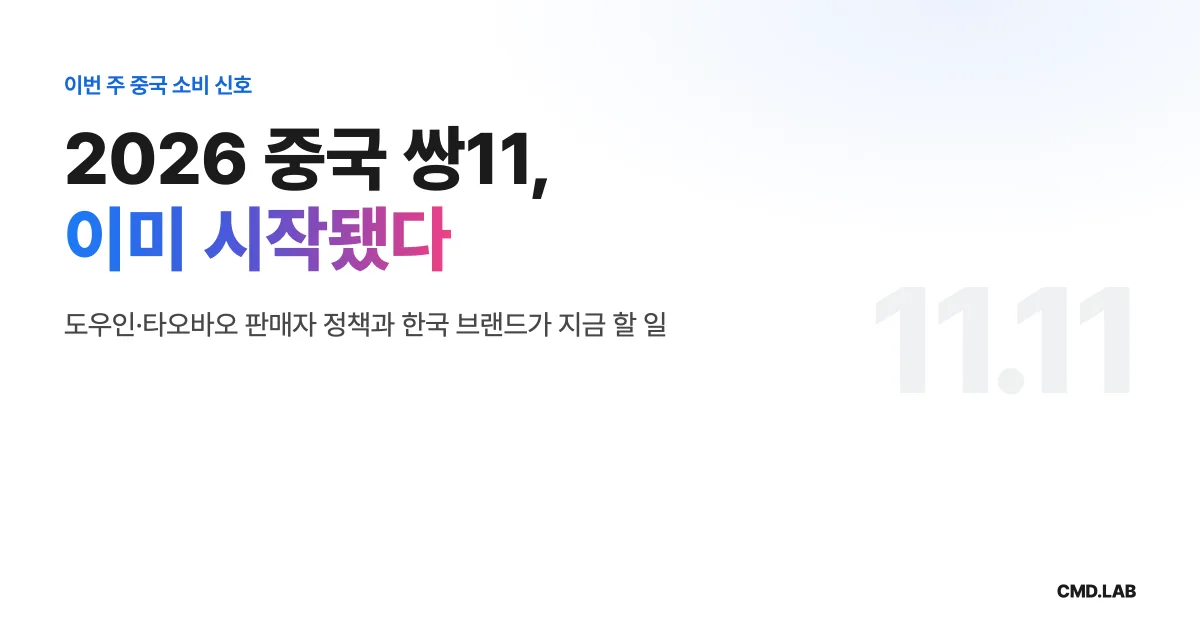
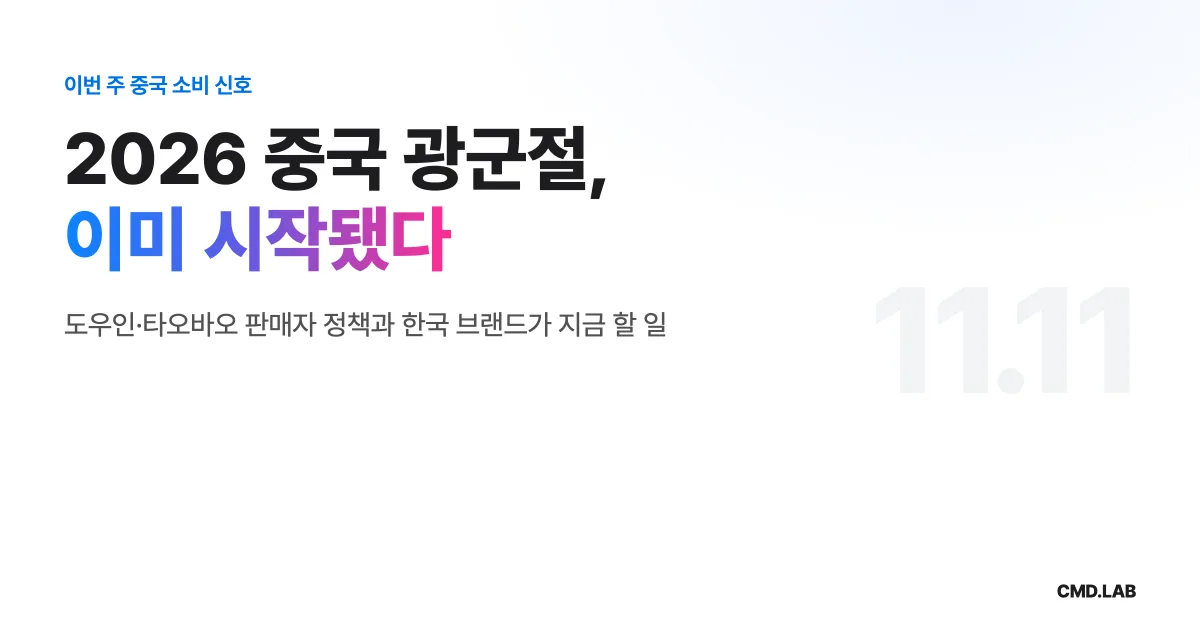
인사이트 그림 속 글자를 광군절로 교체, chinanow 원문 링크 추가(추천 링크와 구분 처리)

Changed region(s): [[0.3392, 0.181, 0.5242, 0.3317], [0.2775, 0.3317, 0.3083, 0.3619]]

diff --git a/insight/2026-china-double11/index.html b/insight/2026-china-double11/index.html
@@ -97,7 +97,7 @@
   <div class="ins-body">
 <blockquote>
 <p>광군절(光棍节)은 광군제, 11.11, 솔로데이, 쌍11(双11)로도 불리는 중국 최대 쇼핑 행사입니다. 이 글은 한국 소비자가 &#39;알리 광군제&#39;, &#39;알리익스프레스 광군제&#39;로 찾는 직구 할인 소식이 아니라, <strong>중국 현지 소비자를 상대로 한 광군절 판매자 정책</strong>을 다룹니다.</p>
-<p>소재는 중국 소비 뉴스를 한국어로 정리해 주는 유료 뉴스레터 <a href="https://www.chinanow.cc/?ref=coorocket" target="_blank" rel="sponsored nofollow noopener" data-track="insight_cta_click" data-track-label="chinanow_referral">chinanow</a>에서 얻었고, 수치는 아래 원출처로 직접 확인했습니다. (추천 링크 포함, 글 끝 안내 참조)</p>
+<p>소재는 중국 소비 뉴스를 한국어로 정리해 주는 유료 뉴스레터 <a href="https://www.chinanow.cc/?ref=coorocket" target="_blank" rel="sponsored nofollow noopener" data-track="insight_cta_click" data-track-label="chinanow_referral">chinanow</a>에서 얻었고(<a href="https://www.chinanow.cc/ko/article/10910/%EC%A4%91%EA%B5%AD-%EC%8C%8D11-%EC%A0%84%EC%9F%81-%EC%98%AC%ED%95%B4%EB%8A%94-%EB%B2%8C%EC%8D%A8-%EC%8B%9C%EC%9E%91%EB%90%90%EB%8B%A4" target="_blank" rel="noopener" data-track="insight_cta_click" data-track-label="chinanow_original">원문 보기</a>), 수치는 아래 원출처로 직접 확인했습니다. (추천 링크 포함, 글 끝 안내 참조)</p>
 </blockquote>
 <blockquote>
 <p><strong>3줄 요약</strong></p>
@@ -186,7 +186,7 @@
 <p>亿邦动力, 「阿里妈妈发布AI定向产品&quot;万相点睛&quot; 披露双11商家侧扶持计划」, 2026-09-02. <a href="https://www.ebrun.com/20260902/704172.shtml" target="_blank" rel="noopener noreferrer">https://www.ebrun.com/20260902/704172.shtml</a></p>
 <p>亿邦动力, 「抖音双11国庆后开始 平台出资消费券 智能优惠券继续降价」, 2026-09-14. <a href="https://www.ebrun.com/20260914/708127.shtml" target="_blank" rel="noopener noreferrer">https://www.ebrun.com/20260914/708127.shtml</a></p>
 <p>甩手网, 「2026抖音双11玩法全公布」, 2026-09-15. <a href="http://www.sszgclub.com/news/84935.html" target="_blank" rel="noopener noreferrer">http://www.sszgclub.com/news/84935.html</a></p>
-<p>소재 참고: <a href="https://www.chinanow.cc/?ref=coorocket" target="_blank" rel="sponsored nofollow noopener" data-track="insight_cta_click" data-track-label="chinanow_referral">chinanow</a> (중국 소비 뉴스레터). 이 링크는 추천 링크이며, 이 링크로 구독하시면 시엠디랩이 소정의 혜택을 받을 수 있습니다. 구독 비용은 달라지지 않습니다.</p>
+<p>소재 참고: <a href="https://www.chinanow.cc/?ref=coorocket" target="_blank" rel="sponsored nofollow noopener" data-track="insight_cta_click" data-track-label="chinanow_referral">chinanow</a> (중국 소비 뉴스레터), <a href="https://www.chinanow.cc/ko/article/10910/%EC%A4%91%EA%B5%AD-%EC%8C%8D11-%EC%A0%84%EC%9F%81-%EC%98%AC%ED%95%B4%EB%8A%94-%EB%B2%8C%EC%8D%A8-%EC%8B%9C%EC%9E%91%EB%90%90%EB%8B%A4" target="_blank" rel="noopener" data-track="insight_cta_click" data-track-label="chinanow_original">소재가 된 원문</a>. 이 링크는 추천 링크이며, 이 링크로 구독하시면 시엠디랩이 소정의 혜택을 받을 수 있습니다. 구독 비용은 달라지지 않습니다.</p>
 
   </section>
 </article>

diff --git a/content/insight/2026-china-double11.md b/content/insight/2026-china-double11.md
@@ -13,7 +13,7 @@ status: 발행
 
 > 광군절(光棍节)은 광군제, 11.11, 솔로데이, 쌍11(双11)로도 불리는 중국 최대 쇼핑 행사입니다. 이 글은 한국 소비자가 '알리 광군제', '알리익스프레스 광군제'로 찾는 직구 할인 소식이 아니라, **중국 현지 소비자를 상대로 한 광군절 판매자 정책**을 다룹니다.
 >
-> 소재는 중국 소비 뉴스를 한국어로 정리해 주는 유료 뉴스레터 [chinanow](https://www.chinanow.cc/?ref=coorocket)에서 얻었고, 수치는 아래 원출처로 직접 확인했습니다. (추천 링크 포함, 글 끝 안내 참조)
+> 소재는 중국 소비 뉴스를 한국어로 정리해 주는 유료 뉴스레터 [chinanow](https://www.chinanow.cc/?ref=coorocket)에서 얻었고([원문 보기](https://www.chinanow.cc/ko/article/10910/%EC%A4%91%EA%B5%AD-%EC%8C%8D11-%EC%A0%84%EC%9F%81-%EC%98%AC%ED%95%B4%EB%8A%94-%EB%B2%8C%EC%8D%A8-%EC%8B%9C%EC%9E%91%EB%90%90%EB%8B%A4)), 수치는 아래 원출처로 직접 확인했습니다. (추천 링크 포함, 글 끝 안내 참조)
 
 > **3줄 요약**
 > - 올해 광군절(광군제)은 '11월 11일 하루'가 아니라 **10월부터 11월 11일까지 이어지는 장기전**입니다.
@@ -89,4 +89,4 @@ status: 발행
 
 甩手网, 「2026抖音双11玩法全公布」, 2026-09-15. http://www.sszgclub.com/news/84935.html
 
-소재 참고: [chinanow](https://www.chinanow.cc/?ref=coorocket) (중국 소비 뉴스레터). 이 링크는 추천 링크이며, 이 링크로 구독하시면 시엠디랩이 소정의 혜택을 받을 수 있습니다. 구독 비용은 달라지지 않습니다.
+소재 참고: [chinanow](https://www.chinanow.cc/?ref=coorocket) (중국 소비 뉴스레터), [소재가 된 원문](https://www.chinanow.cc/ko/article/10910/%EC%A4%91%EA%B5%AD-%EC%8C%8D11-%EC%A0%84%EC%9F%81-%EC%98%AC%ED%95%B4%EB%8A%94-%EB%B2%8C%EC%8D%A8-%EC%8B%9C%EC%9E%91%EB%90%90%EB%8B%A4). 이 링크는 추천 링크이며, 이 링크로 구독하시면 시엠디랩이 소정의 혜택을 받을 수 있습니다. 구독 비용은 달라지지 않습니다.
